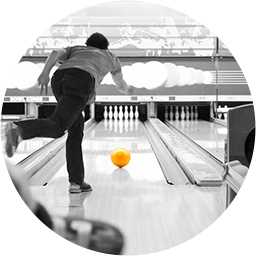
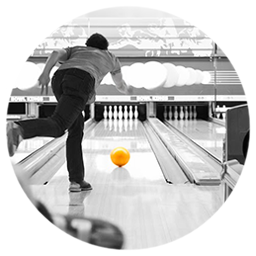
Added profile picture to blog

diff --git a/public/css/hyde.css b/public/css/hyde.css
@@ -132,6 +132,14 @@ a.sidebar-nav-item:focus {
 .sidebar-nav-item.active {
   font-weight: bold;
 }
+/* Sidebar image */
+.img-responsive, .thumbnail>img, .thumbnail a>img, .carousel-inner>.item>img, .carousel-inner>.item>a>img {
+  display: block;
+  width: 6em;
+  height: auto;
+  margin-left: auto;
+    margin-right: auto;
+}
 
 /* Sticky sidebar
  *

diff --git a/_includes/blog/sidebar.html b/_includes/blog/sidebar.html
@@ -1,6 +1,9 @@
 <div class="sidebar">
   <div class="container sidebar-sticky">
     <div class="sidebar-about sidebar-title">
+      
+      <img class="img-responsive" src="../img/profile.png" alt="">
+
       <h1>
         <a class="sidebar-link" href="{{ site.blogbaseurl }}blog">
           {{ site.blogtitle }}
